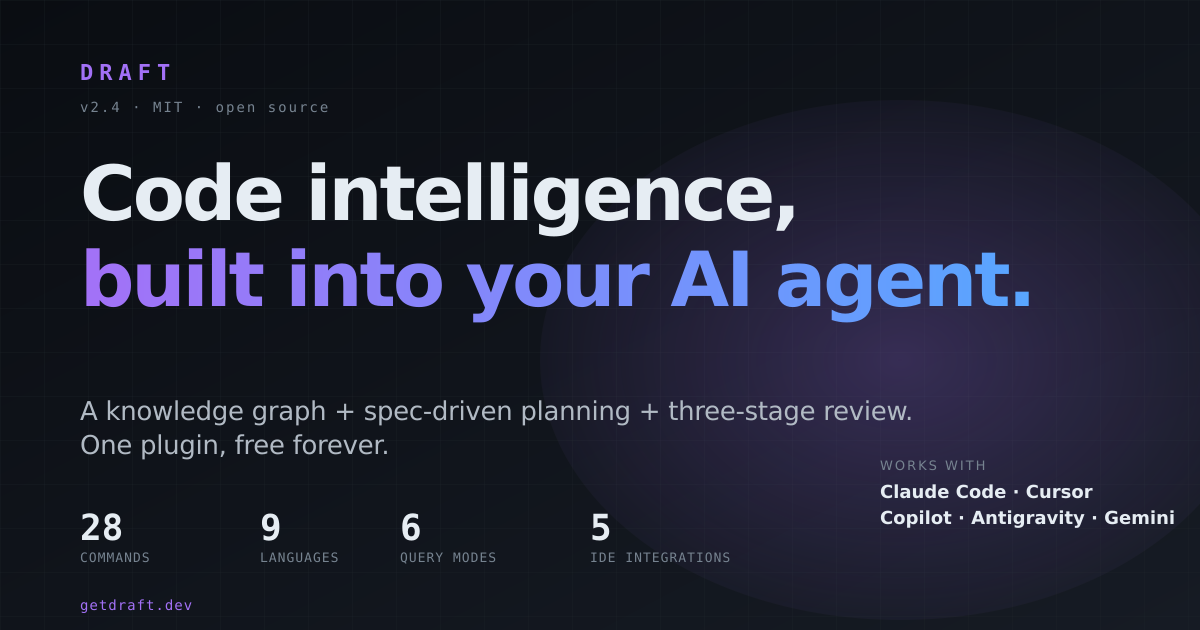
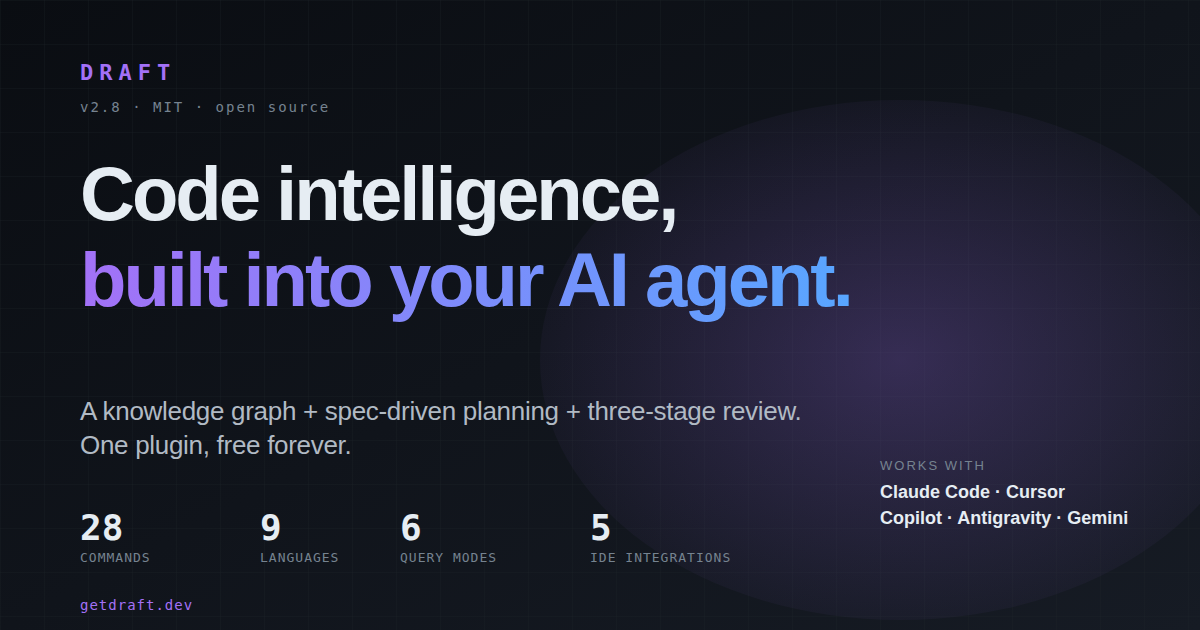
docs(web): bump site to v2.8.3, add changelog entry, refresh comparison footnote
- homepage release pill + release strip -> v2.8.3
- changelog page: add v2.8.3 install-hang fix entry (category -> Fixed)
- comparison footnote: Draft 2.4 / April 2026 -> Draft 2.8 / June 2026
- social-preview: tagline v2.4 -> v2.8, regenerate social-preview.png

diff --git a/web/index.html b/web/index.html
@@ -233,7 +233,7 @@
         <canvas id="hero-canvas" aria-hidden="true"></canvas>
         <div class="hero-content">
             <a href="#changelog-strip" class="release-pill">
-                <span class="release-pill-tag">v2.8.2</span>
+                <span class="release-pill-tag">v2.8.3</span>
                 <span class="release-pill-text">Knowledge graph engine &mdash; codebase-memory-mcp: 159 languages, 100% local, plus the /draft:graph command</span>
                 <span class="release-pill-arrow">â</span>
             </a>
@@ -295,13 +295,13 @@
     </section>
 
     <!-- ============================================================ -->
-    <!-- v2.8.2 RELEASE STRIP                                         -->
+    <!-- v2.8.3 RELEASE STRIP                                         -->
     <!-- ============================================================ -->
     <section id="changelog-strip" class="release-strip">
         <div class="release-strip-inner">
             <div class="release-strip-meta">
                 <span class="release-strip-tag">Latest</span>
-                <span class="release-strip-version">v2.8.2 &middot; June 14, 2026</span>
+                <span class="release-strip-version">v2.8.3 &middot; June 14, 2026</span>
             </div>
             <div class="release-strip-headline">
                 <h3>Draft 2.8 hardens the knowledge graph engine</h3>
@@ -512,7 +512,7 @@
                     </tbody>
                 </table>
             </div>
-            <p class="vs-foot-note">Comparison reflects Draft 2.4 vs. publicly-documented features of named alternatives as of April 2026. Draft is the open-source plugin you install once and own forever.</p>
+            <p class="vs-foot-note">Comparison reflects Draft 2.8 vs. publicly-documented features of named alternatives as of June 2026. Draft is the open-source plugin you install once and own forever.</p>
         </div>
     </section>
 

diff --git a/web/changelog/index.html b/web/changelog/index.html
@@ -219,8 +219,9 @@
                 <span class="changelog-tag">Install</span>
                 <span class="changelog-tag">Knowledge Graph</span>
             </div>
-            <div class="changelog-category">Documentation</div>
+            <div class="changelog-category">Fixed</div>
             <ul class="changelog-changes">
+                <li><strong>v2.8.3 &mdash; <code>install claude-code</code> no longer hangs</strong> &mdash; <code>claude plugin marketplace add</code> git-clones the repo, and ~670&nbsp;MB of audiobook <code>.m4a</code> files in HEAD made even the shallow clone download everything, stalling the install on its first step. The audio now ships as a GitHub Release asset (removed from the repo), shrinking the marketplace clone from ~535&nbsp;MB to under 2&nbsp;MB. The installer also gained a per-step timeout so a stalled network op prints the manual fallback instead of hanging forever.</li>
                 <li><strong>v2.8.2 &mdash; routers, upload &amp; integrations now in the README</strong> &mdash; the command reference previously listed only specialist leaf commands; it now documents the 4 top-tier routers (<code>/draft:plan</code>, <code>/draft:ops</code>, <code>/draft:docs</code>, <code>/draft:discover</code>), the <code>/draft:upload</code> handoff gate, and the <code>/draft:integrations</code> parent command.</li>
                 <li><strong>Counts corrected site-wide</strong> &mdash; the total surface is <strong>34 skills</strong> (4 primary + 5 routers + 25 specialists). Stale "33 commands / 22 specialists" copy is now aligned to the actual count.</li>
             </ul>